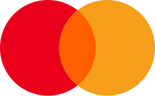
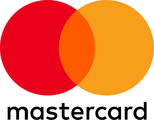
頁尾 Mastercard 改用含字樣版本

Changed region(s): [[0.0, 0.0, 1.0, 1.0], [0.3377, 0.0, 0.6753, 0.4375], [0.7273, 0.0, 0.8052, 0.0312]]

diff --git a/guide/calendar/index.html b/guide/calendar/index.html
@@ -23,7 +23,7 @@
 <link rel="preconnect" href="https://fonts.gstatic.com" crossorigin>
 <link href="https://fonts.googleapis.com/css2?family=Cormorant+Garamond:wght@400;500;600;700&family=Noto+Serif+TC:wght@300;400;500;600;700&family=Inter:wght@300;400;500;600&display=swap" rel="stylesheet">
 <link rel="stylesheet" href="../../assets/site.css">
-<link rel="stylesheet" href="../../assets/nav.css?v=20261023e">
+<link rel="stylesheet" href="../../assets/nav.css?v=20261023f">
 <link rel="stylesheet" href="../../assets/theme.css?v=20261020">
 <style>
 .mjump{position:sticky;top:var(--hdr,72px);z-index:5;background:var(--gray-50);padding:12px 0;display:flex;gap:6px;overflow-x:auto;scrollbar-width:none}
@@ -1118,7 +1118,7 @@
         <a href="https://www.twtainan.net/zh-tw/" target="_blank" rel="noopener" title="台南旅遊網｜臺南市政府觀光旅遊局"><img src="../../assets/badges/tainan-w.png" alt="台南旅遊網" loading="lazy"><img class="g" src="../../assets/badges/tainan-g.png" alt="" aria-hidden="true" loading="lazy"></a>
         <a href="https://www.gounitravel.com/" target="_blank" rel="noopener" title="旅天下加盟體系"><img src="../../assets/badges/uni-w.png" alt="旅天下" loading="lazy"><img class="g" src="../../assets/badges/uni-g.png" alt="" aria-hidden="true" loading="lazy"></a>
         <span class="tb" title="VISA"><img src="../../assets/badges/visa-w.png" alt="VISA" loading="lazy"><img class="g" src="../../assets/badges/visa-g.png" alt="" aria-hidden="true" loading="lazy"></span>
-        <span class="tb" title="Mastercard"><img src="../../assets/badges/mastercard-w.png" alt="Mastercard" loading="lazy"><img class="g" src="../../assets/badges/mastercard-g.png" alt="" aria-hidden="true" loading="lazy"></span>
+        <span class="tb" title="Mastercard"><img src="../../assets/badges/mastercard-w.png?v=2" alt="Mastercard" loading="lazy"><img class="g" src="../../assets/badges/mastercard-g.png?v=2" alt="" aria-hidden="true" loading="lazy"></span>
         <span class="tb" title="JCB"><img src="../../assets/badges/jcb-w.png" alt="JCB" loading="lazy"><img class="g" src="../../assets/badges/jcb-g.png" alt="" aria-hidden="true" loading="lazy"></span>
         <span class="tb" title="LINE Pay"><img src="../../assets/badges/linepay-w.png" alt="LINE Pay" loading="lazy"><img class="g" src="../../assets/badges/linepay-g.png" alt="" aria-hidden="true" loading="lazy"></span>
         <span class="tb" title="全支付"><img src="../../assets/badges/jkopay-w.png" alt="全支付" loading="lazy"><img class="g" src="../../assets/badges/jkopay-g.png" alt="" aria-hidden="true" loading="lazy"></span>

diff --git a/flights/index.html b/flights/index.html
@@ -23,7 +23,7 @@
 <link rel="preconnect" href="https://fonts.gstatic.com" crossorigin>
 <link href="https://fonts.googleapis.com/css2?family=Cormorant+Garamond:wght@400;500;600;700&family=Noto+Serif+TC:wght@300;400;500;600;700&family=Inter:wght@300;400;500;600&display=swap" rel="stylesheet">
 <link rel="stylesheet" href="../assets/site.css">
-<link rel="stylesheet" href="../assets/nav.css?v=20261023e">
+<link rel="stylesheet" href="../assets/nav.css?v=20261023f">
 <link rel="stylesheet" href="../assets/theme.css?v=20261020">
 <style>
 .fl-tools{position:sticky;top:var(--hdr,72px);z-index:5;background:var(--gray-50);padding:14px 0 12px;margin-bottom:8px}
@@ -638,7 +638,7 @@ mark{background:#FFF1CC;color:inherit;padding:0 1px}
         <a href="https://www.twtainan.net/zh-tw/" target="_blank" rel="noopener" title="台南旅遊網｜臺南市政府觀光旅遊局"><img src="../assets/badges/tainan-w.png" alt="台南旅遊網" loading="lazy"><img class="g" src="../assets/badges/tainan-g.png" alt="" aria-hidden="true" loading="lazy"></a>
         <a href="https://www.gounitravel.com/" target="_blank" rel="noopener" title="旅天下加盟體系"><img src="../assets/badges/uni-w.png" alt="旅天下" loading="lazy"><img class="g" src="../assets/badges/uni-g.png" alt="" aria-hidden="true" loading="lazy"></a>
         <span class="tb" title="VISA"><img src="../assets/badges/visa-w.png" alt="VISA" loading="lazy"><img class="g" src="../assets/badges/visa-g.png" alt="" aria-hidden="true" loading="lazy"></span>
-        <span class="tb" title="Mastercard"><img src="../assets/badges/mastercard-w.png" alt="Mastercard" loading="lazy"><img class="g" src="../assets/badges/mastercard-g.png" alt="" aria-hidden="true" loading="lazy"></span>
+        <span class="tb" title="Mastercard"><img src="../assets/badges/mastercard-w.png?v=2" alt="Mastercard" loading="lazy"><img class="g" src="../assets/badges/mastercard-g.png?v=2" alt="" aria-hidden="true" loading="lazy"></span>
         <span class="tb" title="JCB"><img src="../assets/badges/jcb-w.png" alt="JCB" loading="lazy"><img class="g" src="../assets/badges/jcb-g.png" alt="" aria-hidden="true" loading="lazy"></span>
         <span class="tb" title="LINE Pay"><img src="../assets/badges/linepay-w.png" alt="LINE Pay" loading="lazy"><img class="g" src="../assets/badges/linepay-g.png" alt="" aria-hidden="true" loading="lazy"></span>
         <span class="tb" title="全支付"><img src="../assets/badges/jkopay-w.png" alt="全支付" loading="lazy"><img class="g" src="../assets/badges/jkopay-g.png" alt="" aria-hidden="true" loading="lazy"></span>

diff --git a/guide/links/index.html b/guide/links/index.html
@@ -23,7 +23,7 @@
 <link rel="preconnect" href="https://fonts.gstatic.com" crossorigin>
 <link href="https://fonts.googleapis.com/css2?family=Cormorant+Garamond:wght@400;500;600;700&family=Noto+Serif+TC:wght@300;400;500;600;700&family=Inter:wght@300;400;500;600&display=swap" rel="stylesheet">
 <link rel="stylesheet" href="../../assets/site.css">
-<link rel="stylesheet" href="../../assets/nav.css?v=20261023e">
+<link rel="stylesheet" href="../../assets/nav.css?v=20261023f">
 <link rel="stylesheet" href="../../assets/theme.css?v=20261020">
 <style>
 .jump{display:flex;gap:8px;flex-wrap:wrap;justify-content:center;margin-bottom:8px}
@@ -363,7 +363,7 @@
         <a href="https://www.twtainan.net/zh-tw/" target="_blank" rel="noopener" title="台南旅遊網｜臺南市政府觀光旅遊局"><img src="../../assets/badges/tainan-w.png" alt="台南旅遊網" loading="lazy"><img class="g" src="../../assets/badges/tainan-g.png" alt="" aria-hidden="true" loading="lazy"></a>
         <a href="https://www.gounitravel.com/" target="_blank" rel="noopener" title="旅天下加盟體系"><img src="../../assets/badges/uni-w.png" alt="旅天下" loading="lazy"><img class="g" src="../../assets/badges/uni-g.png" alt="" aria-hidden="true" loading="lazy"></a>
         <span class="tb" title="VISA"><img src="../../assets/badges/visa-w.png" alt="VISA" loading="lazy"><img class="g" src="../../assets/badges/visa-g.png" alt="" aria-hidden="true" loading="lazy"></span>
-        <span class="tb" title="Mastercard"><img src="../../assets/badges/mastercard-w.png" alt="Mastercard" loading="lazy"><img class="g" src="../../assets/badges/mastercard-g.png" alt="" aria-hidden="true" loading="lazy"></span>
+        <span class="tb" title="Mastercard"><img src="../../assets/badges/mastercard-w.png?v=2" alt="Mastercard" loading="lazy"><img class="g" src="../../assets/badges/mastercard-g.png?v=2" alt="" aria-hidden="true" loading="lazy"></span>
         <span class="tb" title="JCB"><img src="../../assets/badges/jcb-w.png" alt="JCB" loading="lazy"><img class="g" src="../../assets/badges/jcb-g.png" alt="" aria-hidden="true" loading="lazy"></span>
         <span class="tb" title="LINE Pay"><img src="../../assets/badges/linepay-w.png" alt="LINE Pay" loading="lazy"><img class="g" src="../../assets/badges/linepay-g.png" alt="" aria-hidden="true" loading="lazy"></span>
         <span class="tb" title="全支付"><img src="../../assets/badges/jkopay-w.png" alt="全支付" loading="lazy"><img class="g" src="../../assets/badges/jkopay-g.png" alt="" aria-hidden="true" loading="lazy"></span>

diff --git a/flights/miles/index.html b/flights/miles/index.html
@@ -23,7 +23,7 @@
 <link rel="preconnect" href="https://fonts.gstatic.com" crossorigin>
 <link href="https://fonts.googleapis.com/css2?family=Cormorant+Garamond:wght@400;500;600;700&family=Noto+Serif+TC:wght@300;400;500;600;700&family=Inter:wght@300;400;500;600&display=swap" rel="stylesheet">
 <link rel="stylesheet" href="../../assets/site.css">
-<link rel="stylesheet" href="../../assets/nav.css?v=20261023e">
+<link rel="stylesheet" href="../../assets/nav.css?v=20261023f">
 <link rel="stylesheet" href="../../assets/theme.css?v=20261020">
 <style>
 .ins{display:grid;grid-template-columns:repeat(3,1fr);gap:18px}
@@ -281,7 +281,7 @@
         <a href="https://www.twtainan.net/zh-tw/" target="_blank" rel="noopener" title="台南旅遊網｜臺南市政府觀光旅遊局"><img src="../../assets/badges/tainan-w.png" alt="台南旅遊網" loading="lazy"><img class="g" src="../../assets/badges/tainan-g.png" alt="" aria-hidden="true" loading="lazy"></a>
         <a href="https://www.gounitravel.com/" target="_blank" rel="noopener" title="旅天下加盟體系"><img src="../../assets/badges/uni-w.png" alt="旅天下" loading="lazy"><img class="g" src="../../assets/badges/uni-g.png" alt="" aria-hidden="true" loading="lazy"></a>
         <span class="tb" title="VISA"><img src="../../assets/badges/visa-w.png" alt="VISA" loading="lazy"><img class="g" src="../../assets/badges/visa-g.png" alt="" aria-hidden="true" loading="lazy"></span>
-        <span class="tb" title="Mastercard"><img src="../../assets/badges/mastercard-w.png" alt="Mastercard" loading="lazy"><img class="g" src="../../assets/badges/mastercard-g.png" alt="" aria-hidden="true" loading="lazy"></span>
+        <span class="tb" title="Mastercard"><img src="../../assets/badges/mastercard-w.png?v=2" alt="Mastercard" loading="lazy"><img class="g" src="../../assets/badges/mastercard-g.png?v=2" alt="" aria-hidden="true" loading="lazy"></span>
         <span class="tb" title="JCB"><img src="../../assets/badges/jcb-w.png" alt="JCB" loading="lazy"><img class="g" src="../../assets/badges/jcb-g.png" alt="" aria-hidden="true" loading="lazy"></span>
         <span class="tb" title="LINE Pay"><img src="../../assets/badges/linepay-w.png" alt="LINE Pay" loading="lazy"><img class="g" src="../../assets/badges/linepay-g.png" alt="" aria-hidden="true" loading="lazy"></span>
         <span class="tb" title="全支付"><img src="../../assets/badges/jkopay-w.png" alt="全支付" loading="lazy"><img class="g" src="../../assets/badges/jkopay-g.png" alt="" aria-hidden="true" loading="lazy"></span>

diff --git a/guide/insurance/index.html b/guide/insurance/index.html
@@ -23,7 +23,7 @@
 <link rel="preconnect" href="https://fonts.gstatic.com" crossorigin>
 <link href="https://fonts.googleapis.com/css2?family=Cormorant+Garamond:wght@400;500;600;700&family=Noto+Serif+TC:wght@300;400;500;600;700&family=Inter:wght@300;400;500;600&display=swap" rel="stylesheet">
 <link rel="stylesheet" href="../../assets/site.css">
-<link rel="stylesheet" href="../../assets/nav.css?v=20261023e">
+<link rel="stylesheet" href="../../assets/nav.css?v=20261023f">
 <link rel="stylesheet" href="../../assets/theme.css?v=20261020">
 <style>
 .ins{display:grid;grid-template-columns:repeat(3,1fr);gap:18px}
@@ -270,7 +270,7 @@
         <a href="https://www.twtainan.net/zh-tw/" target="_blank" rel="noopener" title="台南旅遊網｜臺南市政府觀光旅遊局"><img src="../../assets/badges/tainan-w.png" alt="台南旅遊網" loading="lazy"><img class="g" src="../../assets/badges/tainan-g.png" alt="" aria-hidden="true" loading="lazy"></a>
         <a href="https://www.gounitravel.com/" target="_blank" rel="noopener" title="旅天下加盟體系"><img src="../../assets/badges/uni-w.png" alt="旅天下" loading="lazy"><img class="g" src="../../assets/badges/uni-g.png" alt="" aria-hidden="true" loading="lazy"></a>
         <span class="tb" title="VISA"><img src="../../assets/badges/visa-w.png" alt="VISA" loading="lazy"><img class="g" src="../../assets/badges/visa-g.png" alt="" aria-hidden="true" loading="lazy"></span>
-        <span class="tb" title="Mastercard"><img src="../../assets/badges/mastercard-w.png" alt="Mastercard" loading="lazy"><img class="g" src="../../assets/badges/mastercard-g.png" alt="" aria-hidden="true" loading="lazy"></span>
+        <span class="tb" title="Mastercard"><img src="../../assets/badges/mastercard-w.png?v=2" alt="Mastercard" loading="lazy"><img class="g" src="../../assets/badges/mastercard-g.png?v=2" alt="" aria-hidden="true" loading="lazy"></span>
         <span class="tb" title="JCB"><img src="../../assets/badges/jcb-w.png" alt="JCB" loading="lazy"><img class="g" src="../../assets/badges/jcb-g.png" alt="" aria-hidden="true" loading="lazy"></span>
         <span class="tb" title="LINE Pay"><img src="../../assets/badges/linepay-w.png" alt="LINE Pay" loading="lazy"><img class="g" src="../../assets/badges/linepay-g.png" alt="" aria-hidden="true" loading="lazy"></span>
         <span class="tb" title="全支付"><img src="../../assets/badges/jkopay-w.png" alt="全支付" loading="lazy"><img class="g" src="../../assets/badges/jkopay-g.png" alt="" aria-hidden="true" loading="lazy"></span>

diff --git a/faq/index.html b/faq/index.html
@@ -23,7 +23,7 @@
 <link rel="preconnect" href="https://fonts.gstatic.com" crossorigin>
 <link href="https://fonts.googleapis.com/css2?family=Cormorant+Garamond:wght@400;500;600;700&family=Noto+Serif+TC:wght@300;400;500;600;700&family=Inter:wght@300;400;500;600&display=swap" rel="stylesheet">
 <link rel="stylesheet" href="../assets/site.css">
-<link rel="stylesheet" href="../assets/nav.css?v=20261023e">
+<link rel="stylesheet" href="../assets/nav.css?v=20261023f">
 <link rel="stylesheet" href="../assets/theme.css?v=20261020">
 <style>
 .search{position:relative;margin-bottom:16px}
@@ -265,7 +265,7 @@ mark{background:var(--gold-100);color:inherit;padding:0 2px}
         <a href="https://www.twtainan.net/zh-tw/" target="_blank" rel="noopener" title="台南旅遊網｜臺南市政府觀光旅遊局"><img src="../assets/badges/tainan-w.png" alt="台南旅遊網" loading="lazy"><img class="g" src="../assets/badges/tainan-g.png" alt="" aria-hidden="true" loading="lazy"></a>
         <a href="https://www.gounitravel.com/" target="_blank" rel="noopener" title="旅天下加盟體系"><img src="../assets/badges/uni-w.png" alt="旅天下" loading="lazy"><img class="g" src="../assets/badges/uni-g.png" alt="" aria-hidden="true" loading="lazy"></a>
         <span class="tb" title="VISA"><img src="../assets/badges/visa-w.png" alt="VISA" loading="lazy"><img class="g" src="../assets/badges/visa-g.png" alt="" aria-hidden="true" loading="lazy"></span>
-        <span class="tb" title="Mastercard"><img src="../assets/badges/mastercard-w.png" alt="Mastercard" loading="lazy"><img class="g" src="../assets/badges/mastercard-g.png" alt="" aria-hidden="true" loading="lazy"></span>
+        <span class="tb" title="Mastercard"><img src="../assets/badges/mastercard-w.png?v=2" alt="Mastercard" loading="lazy"><img class="g" src="../assets/badges/mastercard-g.png?v=2" alt="" aria-hidden="true" loading="lazy"></span>
         <span class="tb" title="JCB"><img src="../assets/badges/jcb-w.png" alt="JCB" loading="lazy"><img class="g" src="../assets/badges/jcb-g.png" alt="" aria-hidden="true" loading="lazy"></span>
         <span class="tb" title="LINE Pay"><img src="../assets/badges/linepay-w.png" alt="LINE Pay" loading="lazy"><img class="g" src="../assets/badges/linepay-g.png" alt="" aria-hidden="true" loading="lazy"></span>
         <span class="tb" title="全支付"><img src="../assets/badges/jkopay-w.png" alt="全支付" loading="lazy"><img class="g" src="../assets/badges/jkopay-g.png" alt="" aria-hidden="true" loading="lazy"></span>

diff --git a/guide/checklist/index.html b/guide/checklist/index.html
@@ -23,7 +23,7 @@
 <link rel="preconnect" href="https://fonts.gstatic.com" crossorigin>
 <link href="https://fonts.googleapis.com/css2?family=Cormorant+Garamond:wght@400;500;600;700&family=Noto+Serif+TC:wght@300;400;500;600;700&family=Inter:wght@300;400;500;600&display=swap" rel="stylesheet">
 <link rel="stylesheet" href="../../assets/site.css">
-<link rel="stylesheet" href="../../assets/nav.css?v=20261023e">
+<link rel="stylesheet" href="../../assets/nav.css?v=20261023f">
 <link rel="stylesheet" href="../../assets/theme.css?v=20261020">
 <style>
 /* 進度條（黏在頁首下方） */
@@ -226,7 +226,7 @@
         <a href="https://www.twtainan.net/zh-tw/" target="_blank" rel="noopener" title="台南旅遊網｜臺南市政府觀光旅遊局"><img src="../../assets/badges/tainan-w.png" alt="台南旅遊網" loading="lazy"><img class="g" src="../../assets/badges/tainan-g.png" alt="" aria-hidden="true" loading="lazy"></a>
         <a href="https://www.gounitravel.com/" target="_blank" rel="noopener" title="旅天下加盟體系"><img src="../../assets/badges/uni-w.png" alt="旅天下" loading="lazy"><img class="g" src="../../assets/badges/uni-g.png" alt="" aria-hidden="true" loading="lazy"></a>
         <span class="tb" title="VISA"><img src="../../assets/badges/visa-w.png" alt="VISA" loading="lazy"><img class="g" src="../../assets/badges/visa-g.png" alt="" aria-hidden="true" loading="lazy"></span>
-        <span class="tb" title="Mastercard"><img src="../../assets/badges/mastercard-w.png" alt="Mastercard" loading="lazy"><img class="g" src="../../assets/badges/mastercard-g.png" alt="" aria-hidden="true" loading="lazy"></span>
+        <span class="tb" title="Mastercard"><img src="../../assets/badges/mastercard-w.png?v=2" alt="Mastercard" loading="lazy"><img class="g" src="../../assets/badges/mastercard-g.png?v=2" alt="" aria-hidden="true" loading="lazy"></span>
         <span class="tb" title="JCB"><img src="../../assets/badges/jcb-w.png" alt="JCB" loading="lazy"><img class="g" src="../../assets/badges/jcb-g.png" alt="" aria-hidden="true" loading="lazy"></span>
         <span class="tb" title="LINE Pay"><img src="../../assets/badges/linepay-w.png" alt="LINE Pay" loading="lazy"><img class="g" src="../../assets/badges/linepay-g.png" alt="" aria-hidden="true" loading="lazy"></span>
         <span class="tb" title="全支付"><img src="../../assets/badges/jkopay-w.png" alt="全支付" loading="lazy"><img class="g" src="../../assets/badges/jkopay-g.png" alt="" aria-hidden="true" loading="lazy"></span>

diff --git a/guide/visa/index.html b/guide/visa/index.html
@@ -23,7 +23,7 @@
 <link rel="preconnect" href="https://fonts.gstatic.com" crossorigin>
 <link href="https://fonts.googleapis.com/css2?family=Cormorant+Garamond:wght@400;500;600;700&family=Noto+Serif+TC:wght@300;400;500;600;700&family=Inter:wght@300;400;500;600&display=swap" rel="stylesheet">
 <link rel="stylesheet" href="../../assets/site.css">
-<link rel="stylesheet" href="../../assets/nav.css?v=20261023e">
+<link rel="stylesheet" href="../../assets/nav.css?v=20261023f">
 <link rel="stylesheet" href="../../assets/theme.css?v=20261020">
 <style>
 /* 頂部警示框 */
@@ -864,7 +864,7 @@
         <a href="https://www.twtainan.net/zh-tw/" target="_blank" rel="noopener" title="台南旅遊網｜臺南市政府觀光旅遊局"><img src="../../assets/badges/tainan-w.png" alt="台南旅遊網" loading="lazy"><img class="g" src="../../assets/badges/tainan-g.png" alt="" aria-hidden="true" loading="lazy"></a>
         <a href="https://www.gounitravel.com/" target="_blank" rel="noopener" title="旅天下加盟體系"><img src="../../assets/badges/uni-w.png" alt="旅天下" loading="lazy"><img class="g" src="../../assets/badges/uni-g.png" alt="" aria-hidden="true" loading="lazy"></a>
         <span class="tb" title="VISA"><img src="../../assets/badges/visa-w.png" alt="VISA" loading="lazy"><img class="g" src="../../assets/badges/visa-g.png" alt="" aria-hidden="true" loading="lazy"></span>
-        <span class="tb" title="Mastercard"><img src="../../assets/badges/mastercard-w.png" alt="Mastercard" loading="lazy"><img class="g" src="../../assets/badges/mastercard-g.png" alt="" aria-hidden="true" loading="lazy"></span>
+        <span class="tb" title="Mastercard"><img src="../../assets/badges/mastercard-w.png?v=2" alt="Mastercard" loading="lazy"><img class="g" src="../../assets/badges/mastercard-g.png?v=2" alt="" aria-hidden="true" loading="lazy"></span>
         <span class="tb" title="JCB"><img src="../../assets/badges/jcb-w.png" alt="JCB" loading="lazy"><img class="g" src="../../assets/badges/jcb-g.png" alt="" aria-hidden="true" loading="lazy"></span>
         <span class="tb" title="LINE Pay"><img src="../../assets/badges/linepay-w.png" alt="LINE Pay" loading="lazy"><img class="g" src="../../assets/badges/linepay-g.png" alt="" aria-hidden="true" loading="lazy"></span>
         <span class="tb" title="全支付"><img src="../../assets/badges/jkopay-w.png" alt="全支付" loading="lazy"><img class="g" src="../../assets/badges/jkopay-g.png" alt="" aria-hidden="true" loading="lazy"></span>

diff --git a/guide/destinations/index.html b/guide/destinations/index.html
@@ -23,7 +23,7 @@
 <link rel="preconnect" href="https://fonts.gstatic.com" crossorigin>
 <link href="https://fonts.googleapis.com/css2?family=Cormorant+Garamond:wght@400;500;600;700&family=Noto+Serif+TC:wght@300;400;500;600;700&family=Inter:wght@300;400;500;600&display=swap" rel="stylesheet">
 <link rel="stylesheet" href="../../assets/site.css">
-<link rel="stylesheet" href="../../assets/nav.css?v=20261023e">
+<link rel="stylesheet" href="../../assets/nav.css?v=20261023f">
 <link rel="stylesheet" href="../../assets/theme.css?v=20261020">
 <style>
 /* 國家資訊 */
@@ -548,7 +548,7 @@
         <a href="https://www.twtainan.net/zh-tw/" target="_blank" rel="noopener" title="台南旅遊網｜臺南市政府觀光旅遊局"><img src="../../assets/badges/tainan-w.png" alt="台南旅遊網" loading="lazy"><img class="g" src="../../assets/badges/tainan-g.png" alt="" aria-hidden="true" loading="lazy"></a>
         <a href="https://www.gounitravel.com/" target="_blank" rel="noopener" title="旅天下加盟體系"><img src="../../assets/badges/uni-w.png" alt="旅天下" loading="lazy"><img class="g" src="../../assets/badges/uni-g.png" alt="" aria-hidden="true" loading="lazy"></a>
         <span class="tb" title="VISA"><img src="../../assets/badges/visa-w.png" alt="VISA" loading="lazy"><img class="g" src="../../assets/badges/visa-g.png" alt="" aria-hidden="true" loading="lazy"></span>
-        <span class="tb" title="Mastercard"><img src="../../assets/badges/mastercard-w.png" alt="Mastercard" loading="lazy"><img class="g" src="../../assets/badges/mastercard-g.png" alt="" aria-hidden="true" loading="lazy"></span>
+        <span class="tb" title="Mastercard"><img src="../../assets/badges/mastercard-w.png?v=2" alt="Mastercard" loading="lazy"><img class="g" src="../../assets/badges/mastercard-g.png?v=2" alt="" aria-hidden="true" loading="lazy"></span>
         <span class="tb" title="JCB"><img src="../../assets/badges/jcb-w.png" alt="JCB" loading="lazy"><img class="g" src="../../assets/badges/jcb-g.png" alt="" aria-hidden="true" loading="lazy"></span>
         <span class="tb" title="LINE Pay"><img src="../../assets/badges/linepay-w.png" alt="LINE Pay" loading="lazy"><img class="g" src="../../assets/badges/linepay-g.png" alt="" aria-hidden="true" loading="lazy"></span>
         <span class="tb" title="全支付"><img src="../../assets/badges/jkopay-w.png" alt="全支付" loading="lazy"><img class="g" src="../../assets/badges/jkopay-g.png" alt="" aria-hidden="true" loading="lazy"></span>

diff --git a/custom/index.html b/custom/index.html
@@ -23,7 +23,7 @@
 <link rel="preconnect" href="https://fonts.gstatic.com" crossorigin>
 <link href="https://fonts.googleapis.com/css2?family=Cormorant+Garamond:wght@400;500;600;700&family=Noto+Serif+TC:wght@300;400;500;600;700&family=Inter:wght@300;400;500;600&display=swap" rel="stylesheet">
 <link rel="stylesheet" href="../assets/site.css">
-<link rel="stylesheet" href="../assets/nav.css?v=20261023e">
+<link rel="stylesheet" href="../assets/nav.css?v=20261023f">
 <link rel="stylesheet" href="../assets/theme.css?v=20261020">
 <style>
 .who-grid{display:grid;grid-template-columns:repeat(3,1fr);gap:18px}
@@ -204,7 +204,7 @@
         <a href="https://www.twtainan.net/zh-tw/" target="_blank" rel="noopener" title="台南旅遊網｜臺南市政府觀光旅遊局"><img src="../assets/badges/tainan-w.png" alt="台南旅遊網" loading="lazy"><img class="g" src="../assets/badges/tainan-g.png" alt="" aria-hidden="true" loading="lazy"></a>
         <a href="https://www.gounitravel.com/" target="_blank" rel="noopener" title="旅天下加盟體系"><img src="../assets/badges/uni-w.png" alt="旅天下" loading="lazy"><img class="g" src="../assets/badges/uni-g.png" alt="" aria-hidden="true" loading="lazy"></a>
         <span class="tb" title="VISA"><img src="../assets/badges/visa-w.png" alt="VISA" loading="lazy"><img class="g" src="../assets/badges/visa-g.png" alt="" aria-hidden="true" loading="lazy"></span>
-        <span class="tb" title="Mastercard"><img src="../assets/badges/mastercard-w.png" alt="Mastercard" loading="lazy"><img class="g" src="../assets/badges/mastercard-g.png" alt="" aria-hidden="true" loading="lazy"></span>
+        <span class="tb" title="Mastercard"><img src="../assets/badges/mastercard-w.png?v=2" alt="Mastercard" loading="lazy"><img class="g" src="../assets/badges/mastercard-g.png?v=2" alt="" aria-hidden="true" loading="lazy"></span>
         <span class="tb" title="JCB"><img src="../assets/badges/jcb-w.png" alt="JCB" loading="lazy"><img class="g" src="../assets/badges/jcb-g.png" alt="" aria-hidden="true" loading="lazy"></span>
         <span class="tb" title="LINE Pay"><img src="../assets/badges/linepay-w.png" alt="LINE Pay" loading="lazy"><img class="g" src="../assets/badges/linepay-g.png" alt="" aria-hidden="true" loading="lazy"></span>
         <span class="tb" title="全支付"><img src="../assets/badges/jkopay-w.png" alt="全支付" loading="lazy"><img class="g" src="../assets/badges/jkopay-g.png" alt="" aria-hidden="true" loading="lazy"></span>

diff --git a/anti-fraud/index.html b/anti-fraud/index.html
@@ -23,7 +23,7 @@
 <link rel="preconnect" href="https://fonts.gstatic.com" crossorigin>
 <link href="https://fonts.googleapis.com/css2?family=Cormorant+Garamond:wght@400;500;600;700&family=Noto+Serif+TC:wght@300;400;500;600;700&family=Inter:wght@300;400;500;600&display=swap" rel="stylesheet">
 <link rel="stylesheet" href="../assets/site.css">
-<link rel="stylesheet" href="../assets/nav.css?v=20261023e">
+<link rel="stylesheet" href="../assets/nav.css?v=20261023f">
 <link rel="stylesheet" href="../assets/theme.css?v=20261020">
 <style>
 .promise{display:grid;grid-template-columns:repeat(2,1fr);gap:16px}
@@ -188,7 +188,7 @@
         <a href="https://www.twtainan.net/zh-tw/" target="_blank" rel="noopener" title="台南旅遊網｜臺南市政府觀光旅遊局"><img src="../assets/badges/tainan-w.png" alt="台南旅遊網" loading="lazy"><img class="g" src="../assets/badges/tainan-g.png" alt="" aria-hidden="true" loading="lazy"></a>
         <a href="https://www.gounitravel.com/" target="_blank" rel="noopener" title="旅天下加盟體系"><img src="../assets/badges/uni-w.png" alt="旅天下" loading="lazy"><img class="g" src="../assets/badges/uni-g.png" alt="" aria-hidden="true" loading="lazy"></a>
         <span class="tb" title="VISA"><img src="../assets/badges/visa-w.png" alt="VISA" loading="lazy"><img class="g" src="../assets/badges/visa-g.png" alt="" aria-hidden="true" loading="lazy"></span>
-        <span class="tb" title="Mastercard"><img src="../assets/badges/mastercard-w.png" alt="Mastercard" loading="lazy"><img class="g" src="../assets/badges/mastercard-g.png" alt="" aria-hidden="true" loading="lazy"></span>
+        <span class="tb" title="Mastercard"><img src="../assets/badges/mastercard-w.png?v=2" alt="Mastercard" loading="lazy"><img class="g" src="../assets/badges/mastercard-g.png?v=2" alt="" aria-hidden="true" loading="lazy"></span>
         <span class="tb" title="JCB"><img src="../assets/badges/jcb-w.png" alt="JCB" loading="lazy"><img class="g" src="../assets/badges/jcb-g.png" alt="" aria-hidden="true" loading="lazy"></span>
         <span class="tb" title="LINE Pay"><img src="../assets/badges/linepay-w.png" alt="LINE Pay" loading="lazy"><img class="g" src="../assets/badges/linepay-g.png" alt="" aria-hidden="true" loading="lazy"></span>
         <span class="tb" title="全支付"><img src="../assets/badges/jkopay-w.png" alt="全支付" loading="lazy"><img class="g" src="../assets/badges/jkopay-g.png" alt="" aria-hidden="true" loading="lazy"></span>

diff --git a/guide/index.html b/guide/index.html
@@ -23,7 +23,7 @@
 <link rel="preconnect" href="https://fonts.gstatic.com" crossorigin>
 <link href="https://fonts.googleapis.com/css2?family=Cormorant+Garamond:wght@400;500;600;700&family=Noto+Serif+TC:wght@300;400;500;600;700&family=Inter:wght@300;400;500;600&display=swap" rel="stylesheet">
 <link rel="stylesheet" href="../assets/site.css">
-<link rel="stylesheet" href="../assets/nav.css?v=20261023e">
+<link rel="stylesheet" href="../assets/nav.css?v=20261023f">
 <link rel="stylesheet" href="../assets/theme.css?v=20261020">
 <style>
 .hub{display:grid;grid-template-columns:1fr 1fr;gap:24px}
@@ -229,7 +229,7 @@
         <a href="https://www.twtainan.net/zh-tw/" target="_blank" rel="noopener" title="台南旅遊網｜臺南市政府觀光旅遊局"><img src="../assets/badges/tainan-w.png" alt="台南旅遊網" loading="lazy"><img class="g" src="../assets/badges/tainan-g.png" alt="" aria-hidden="true" loading="lazy"></a>
         <a href="https://www.gounitravel.com/" target="_blank" rel="noopener" title="旅天下加盟體系"><img src="../assets/badges/uni-w.png" alt="旅天下" loading="lazy"><img class="g" src="../assets/badges/uni-g.png" alt="" aria-hidden="true" loading="lazy"></a>
         <span class="tb" title="VISA"><img src="../assets/badges/visa-w.png" alt="VISA" loading="lazy"><img class="g" src="../assets/badges/visa-g.png" alt="" aria-hidden="true" loading="lazy"></span>
-        <span class="tb" title="Mastercard"><img src="../assets/badges/mastercard-w.png" alt="Mastercard" loading="lazy"><img class="g" src="../assets/badges/mastercard-g.png" alt="" aria-hidden="true" loading="lazy"></span>
+        <span class="tb" title="Mastercard"><img src="../assets/badges/mastercard-w.png?v=2" alt="Mastercard" loading="lazy"><img class="g" src="../assets/badges/mastercard-g.png?v=2" alt="" aria-hidden="true" loading="lazy"></span>
         <span class="tb" title="JCB"><img src="../assets/badges/jcb-w.png" alt="JCB" loading="lazy"><img class="g" src="../assets/badges/jcb-g.png" alt="" aria-hidden="true" loading="lazy"></span>
         <span class="tb" title="LINE Pay"><img src="../assets/badges/linepay-w.png" alt="LINE Pay" loading="lazy"><img class="g" src="../assets/badges/linepay-g.png" alt="" aria-hidden="true" loading="lazy"></span>
         <span class="tb" title="全支付"><img src="../assets/badges/jkopay-w.png" alt="全支付" loading="lazy"><img class="g" src="../assets/badges/jkopay-g.png" alt="" aria-hidden="true" loading="lazy"></span>
